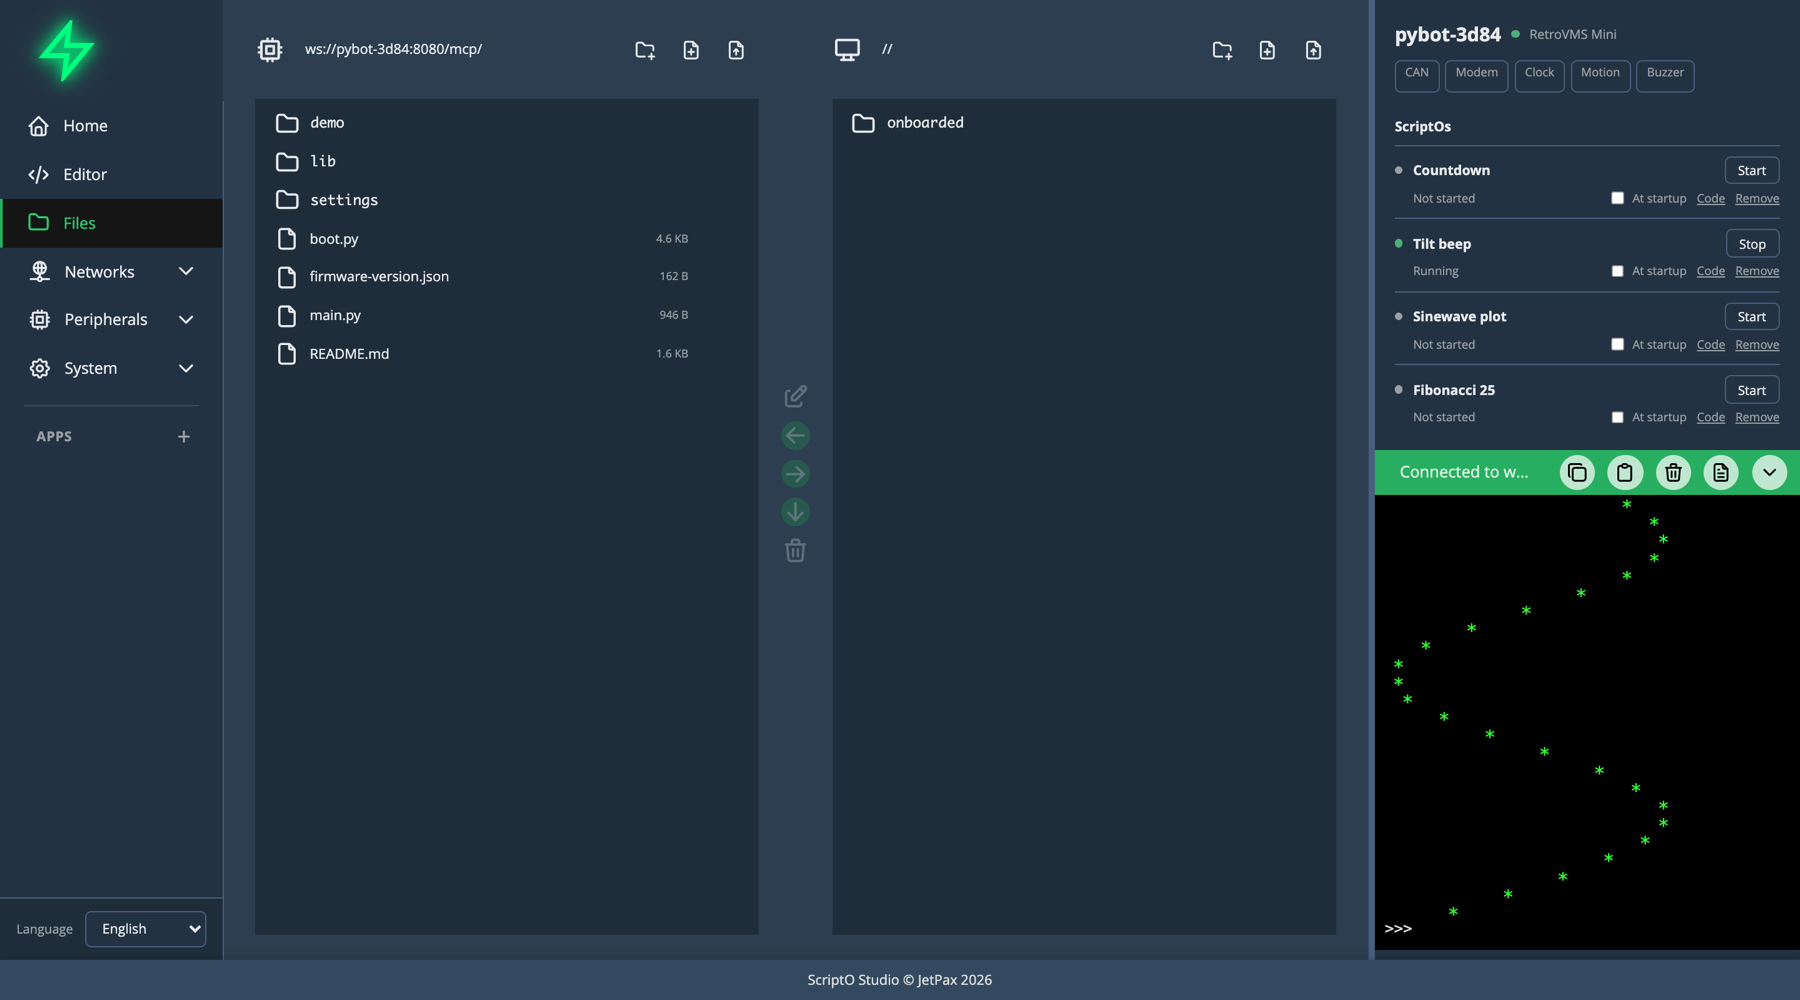
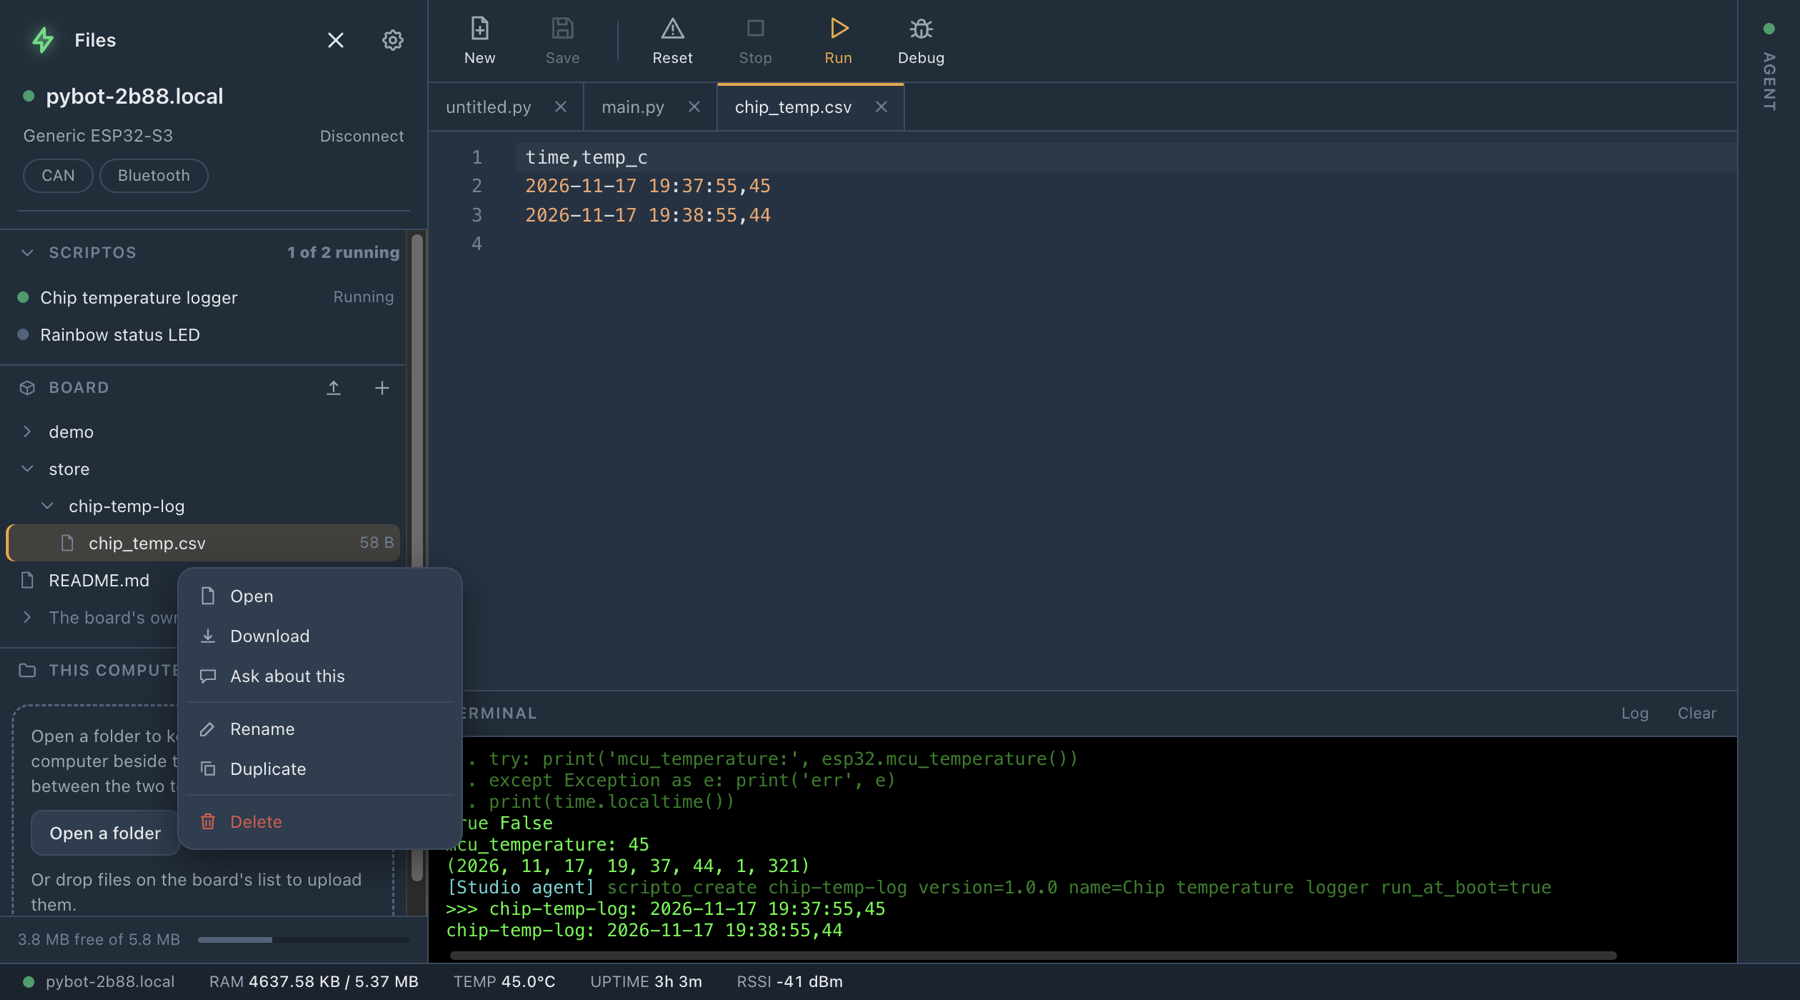
docs: new screenshots, Files and Editor for v2, Debug then Run

diff --git a/docs-src/user-guide/file-manager.md b/docs-src/user-guide/file-manager.md
@@ -1,51 +1,49 @@
-# File Manager
+# Files
 
-The File Manager shows the board's files next to files kept in your browser, and moves files between them.
+The folder button at the top of the sidebar shows **Files** in place of the Apps. Whatever is in the centre stays there, and opening a file brings Studio forward. Click the **×** in the button's place to go back to the Apps. Drag the sidebar's right edge to make it wider.
 
-Open it with **Files** in the menu.
+![Files, with a log file's menu open](../assets/files.png)
 
-![The Files view](../assets/files.png)
+Files has three parts.
 
-## The two panes
-
-| Pane | Shows |
+| Part | Shows |
 |------|-------|
-| Left | The board's filesystem. It reads **Connect to board** until a board is connected. |
-| Right | Browser storage: files Studio keeps in your browser, on your computer. |
+| **ScriptOs** | What's installed on the board, and whether each is running. |
+| **Board** | The board's files and folders. |
+| **This computer** | A folder on your computer, once you open one. |
 
-Each pane has a header with its path and three buttons: new folder, new file, and upload (left pane) or import (right pane). Files show their size. Folders are listed first.
+## ScriptOs
 
-Between the panes is a column of buttons that act on what you've selected:
+Each row has a dot that says whether the ScriptO is running, stopped or crashed.
 
-| Button | Action |
-|--------|--------|
-| Edit (pencil) | Open the selected files in the editor. |
-| Left arrow | Copy the selection from browser storage to the board. |
-| Right arrow | Copy the selection from the board to browser storage. |
-| Down arrow | Export the selected files to your computer, as browser downloads. |
-| Trash | Delete the selection. |
+- Hover over a row for its start or stop button.
+- Click a row to open its code in the editor.
+- Right-click it, or click its **⋯**, for **Run at startup**, **Open the code**, **Ask about the crash** when it has crashed, and **Remove**.
 
-## Select, open and navigate
+Click the **ScriptOs** heading to fold the list away. An App's own ScriptO belongs to the App, so it isn't listed here.
 
-- Click an item to select it. Click it again to clear it.
-- Double-click a file to open it in the editor.
-- Double-click a folder to go into it. Click `..` at the top of the list to go up.
+## The board's files
 
-## Create, rename and delete
+- Click a file to open it in the editor. Click a folder to open or close it.
+- Shift-click or Cmd-click to select several.
+- Right-click for **Open**, **Download**, **Ask about this**, **Rename**, **Duplicate** and **Delete**.
+- The upload button in the **Board** heading sends files from your computer to the board. Its **+** has **New file**, **New folder**, **Upload files**, **Back up the board** and **Refresh**.
+- Drag a file or folder onto a folder to move it. Drop files from your computer onto the list to upload them.
 
-- **New file** and **New folder** add an empty entry to the list with a name field. Type a name and press Enter. Press Escape to cancel.
-- **Rename**: click the text-cursor icon at the end of a row, edit the name, and press Enter.
-- **Delete**: select items, click the trash button and confirm. The confirmation lists what will go.
+The board's own files, the ones botIQ runs on, are folded away under **The board's own files**. Studio warns before you rename or delete one of them.
 
 > [!WARNING]
 > Deleting `boot.py` or breaking `main.py` can keep the board from starting.
 
-## Move files
+The bar at the bottom shows how much space the board has free.
 
-- **Copy to the board or to browser storage** with the arrow buttons. If a file of the same name is already at the destination, Studio lists the files it would overwrite and asks first.
-- **Upload** (left pane header) sends files from your computer straight to the board.
-- **Import** (right pane header) brings files from your computer into browser storage.
-- **Export** (down arrow) saves the selected files from either pane to your computer.
+## This computer
+
+Click **Open a folder** to keep files on your computer beside the board's. Chrome and Edge allow this; the browser asks again before Studio uses the folder in a later visit.
+
+- Drag between the two places to copy.
+- Right-click a folder on your computer for **Restore to the board**, which writes everything in it to the same place on the board.
+- **Back up the board**, in the board's **+**, copies all the board's files into a dated folder here. It leaves out the board's certificate and its settings file, which holds the Wi-Fi password.
 
 ## Related
 

diff --git a/docs-src/user-guide/editor-features.md b/docs-src/user-guide/editor-features.md
@@ -1,8 +1,8 @@
 # Editor Features
 
-The Editor edits files on the board or in your browser storage. Open it with **Editor** in the menu.
+The editor fills the top of Studio. It edits files on the board, or in a folder on your computer that you've opened in [Files](file-manager.md).
 
-![The Editor](../assets/editor.png)
+![A ScriptO's code in the editor, with Files in the sidebar](../assets/editor.png)
 
 The editor is CodeMirror 6. It has Python and JSON highlighting, line numbers, folding, bracket matching, search and undo history.
 
@@ -10,44 +10,37 @@ The editor is CodeMirror 6. It has Python and JSON highlighting, line numbers, f
 
 | Button | Action | Shortcut |
 |--------|--------|----------|
-| **New** | Create a file. | Ctrl+N / Cmd+N |
-| **Save** | Save the current file. | Ctrl+S / Cmd+S |
-| **Reset** | Reset the board. | |
-| **Stop** | Interrupt what's running and stop background tasks. | |
-| **Run** | Run the current file on the board. | Ctrl+R / Cmd+R |
-| **Debug** | Start a debug session. See [Debugging](debugging.md). | |
+| **New** | Start a new file. A new Python file holds a short test: it prints Hello, ScriptO! and calls `neofetch()`. | |
+| **Save** | Save the file. A new file asks where on the board it goes. | Ctrl+S / Cmd+S |
+| **Reset** | Restart the board's Python, or the whole board. | |
+| **Stop** | Break whatever is running, and stop ScriptOs and Apps too. | |
+| **Run** | Run the file, or only what's selected in it. With the debugger showing, run the file in it. | Ctrl+Enter / Cmd+Enter |
+| **Debug** | Show or hide the debugger. See [Debugging](debugging.md). | F5 |
+
+Studio opens on a new file when nothing is open, so **Run** is a one-click test of the board.
 
 ## Tabs
 
-Each open file has a tab. A CPU icon means the file is on the board, and a desktop icon means it's in browser storage. A `*` marks unsaved changes.
+Each open file has a tab. A dot marks unsaved changes; Studio keeps unsaved files in this browser until you save them.
 
 - Click a tab to switch to it.
-- Click the name on the active tab to rename the file.
-- Click the **x** to close it.
+- Click the **×** to close it. If it has unsaved changes, Studio asks first.
 
 ## Run
 
-**Run** sends the editor's current text to the board, saved or not. Output appears in the [terminal](terminal.md) in the sidebar.
+**Run** sends the editor's text to the board, saved or not, and its output appears in the [terminal](terminal.md) beneath. With part of the file selected, it runs only that.
 
-## JSON mode
+## JSON
 
-Files that end in `.json` get JSON highlighting. When you open one that holds a JSON object or array, Studio reformats it with two-space indentation.
+Files that end in `.json` get JSON highlighting.
 
 ## Breakpoints
 
 Click the gutter beside a line number to set a breakpoint. See [Debugging](debugging.md).
 
-## Other shortcuts
-
-| Shortcut | Action |
-|----------|--------|
-| Ctrl+L / Cmd+L | Clear the terminal. |
-
-These act in the Editor, apart from clearing the terminal, so Cmd+R reloads the page anywhere else. Browsers keep Cmd+N for themselves in a tab, so that one needs Studio installed as an app.
-
 ## Related
 
-- [File Manager](file-manager.md)
+- [Files](file-manager.md)
 - [Terminal](terminal.md)
 - [Debugging](debugging.md)
 - [Writing ScriptOs](../scriptos/writing-scriptos.md)

diff --git a/docs-src/getting-started/index.md b/docs-src/getting-started/index.md
@@ -9,7 +9,7 @@ Go to [scriptostudio.com/app](https://scriptostudio.com/app/). You can install i
 ## 2. Set up a new board
 
 1. Plug the board in with USB.
-2. Click **Set up a new board** at the bottom of the sidebar. That opens **Settings > Firmware**.
+2. Click the gear at the top of the sidebar, then **Firmware**.
 3. Follow the steps to flash the firmware and give the board your WiFi details. Its certificate is generated for you.
 4. Choose the board's password at `https://<host>.local/setup`. Your browser warns about the board's certificate the first time, because the board signed it itself. That's expected, so proceed to it.
 5. The board sends you back to Studio with its address filled in.
@@ -18,20 +18,20 @@ See [Flashing Firmware](../device-setup/flashing-firmware.md) and [Provisioning]
 
 ## 3. Connect
 
-Click **Connect a board**, or **Connect** beside a board you've used before.
+Click **Connect a board** at the top of the sidebar. A board you've used before is listed beneath it; click it to connect again.
 
 ![The connection dialog](../assets/connect-dialog.png)
 
-- **Device URL** is the board's address, such as `wss://pybot-6014.local/mcp`.
+- **Address** is the board's name on your network, such as `pybot-6014.local`.
 - **Password** is the one you chose during setup.
 
-The board then appears in the sidebar with what it has, such as CAN, Clock or Motion, and the ScriptOs on it.
+The board then shows at the top of the sidebar, with what it is and what it has, such as CAN or Bluetooth. Its ScriptOs are in [Files](../user-guide/file-manager.md).
 
 ## 4. Add an API key
 
 Studio's agent runs in your browser and uses models through [OpenRouter](https://openrouter.ai), on your own account.
 
-1. Click **Add an API key** under the message box, and paste your key.
+1. Click **Add an API key** under the message box in the Agent, on the right, and paste your key.
 2. Click the model's name beside it to choose another model. Tick **Free only** to see the free ones.
 
 The key stays in this browser, in a separate frame that Studio's pages and Apps can't read.
@@ -40,8 +40,8 @@ If you'd rather use Claude Code or another agent, see [Other Agents](../agent/ot
 
 ## 5. Ask for something
 
-![Home, ready for a request](../assets/home-start.png)
+![Studio, ready for a request](../assets/home-start.png)
 
-Type what the board should do, or pick a suggestion. Suggestions come from what the board says it has.
+In the Agent, type what the board should do, or pick a suggestion. Suggestions come from what the board says it has.
 
 Next: [Your First ScriptO](first-scripto.md).

diff --git a/docs-src/user-guide/debugging.md b/docs-src/user-guide/debugging.md
@@ -6,11 +6,12 @@ The debugger runs the file you're editing on the board and stops it at breakpoin
 
 1. Connect a board and open a Python file in the **Editor**.
 2. Optionally, set breakpoints in the gutter (below).
-3. Click **Debug** in the toolbar. The debugger opens beside the code, with the file, its breakpoints and the watch expressions. **Debug** needs a board connected and a file open.
-4. Add watch expressions if you want them.
-5. Click **Start debugging**.
+3. Click **Debug** in the toolbar, or press F5. The debugger opens beside the code, with the file's breakpoints and your watch expressions.
+4. Click **Run**, or press F5 again. The file runs, and stops at its first breakpoint, or at its first line if it has none.
 
-Studio prepares the file in the browser, interrupts whatever is running, and runs the prepared file in the terminal. While a session is open the editor is read-only, and **New** and **Save** are disabled.
+Click **Debug** again to hide the debugger; **Run** then runs the file as usual.
+
+Running in the debugger needs a board connected and a file open. Studio prepares the file in the browser, interrupts whatever is running, and runs the prepared file in the terminal. While a session is open the editor is read-only, and **New** and **Save** are disabled.
 
 ## Breakpoints
 
@@ -27,7 +28,7 @@ Click **Save** to keep your changes.
 
 ## Watch expressions
 
-**Watch Expressions** takes one expression per line, for example `x * 2`. Studio evaluates them each time the program stops.
+**Watch**, in the debugger, takes one expression per line, for example `x * 2`. Studio works them out each time the program stops. They become part of the file that runs, so watches you add during a session are worked out from the next time you click **Run**. Studio keeps them for next time.
 
 ## While the program is stopped
 
@@ -41,7 +42,7 @@ The toolbar shows these buttons during a session:
 | **Step In** | Step into a call. F11. |
 | **Step Out** | Run until the current function returns. F12. |
 
-The sidebar, titled **Debug Session**, shows **Live Variables**: your watch expressions and the local variables at the stop. The terminal prints the stop as well, with the file and line, the watches, the locals, the memory in use and the elapsed time.
+The debugger shows where the program stopped, its **Variables** and your **Watch** expressions, with the values that changed since the last stop highlighted. **Ask about this** hands the file and the values to the agent. The terminal marks each stop with its line.
 
 ## How it connects
 

diff --git a/docs-src/getting-started/first-scripto.md b/docs-src/getting-started/first-scripto.md
@@ -1,13 +1,13 @@
 # Your First ScriptO
 
-This walks through one request on a board with an accelerometer and a buzzer. On another board, ask for something it has hardware for.
+This walks through one request that any board can do: every ESP32 can read its own temperature.
 
 ## Ask
 
-On Home, type:
+In the Agent, type:
 
 ```text
-Beep when the board is tilted
+Log the chip temperature to a file every minute
 ```
 
 ## Watch
@@ -16,28 +16,28 @@ Beep when the board is tilted
 
 The chat shows each call the agent makes, and the terminal shows the code it runs and what that printed.
 
-1. **It tries the hardware.** It calls `exec` to read the accelerometer and see what it reads at rest.
+1. **It tries the hardware.** It calls `exec` to find the temperature sensor and read it.
 2. **It leaves a ScriptO.** It calls `scripto_create` with an id and the code. The code is checked before anything is written, so a mistake can't replace what's working.
 3. **Studio checks on it.** Two seconds after a ScriptO starts, Studio tells the agent what became of it. If it crashed, the agent sees the error and can fix it.
-4. **It reports.** It says what it did and what it couldn't check. An agent can't hear a buzzer, so it asks you to try it.
+4. **It reports.** It says what it did, where the readings go, and what it couldn't check.
 
-The ScriptO's row appears in the sidebar, marked **Running**.
+The ScriptO appears under **ScriptOs** in [Files](../user-guide/file-manager.md), marked **Running**.
 
 ## Try it
 
-Tilt the board. It should beep once per tilt.
+After a few minutes, open the file the agent named, in Files. There's a new line each minute.
 
 If it doesn't do what you wanted, say so in the same chat. The agent can read the sensor again, change the code and restart it.
 
 ## Keep it
 
-The ScriptO keeps running after you close Studio. To have it start every time the board powers up, tick **At startup** on its row, or ask the agent.
+The ScriptO keeps running after you close Studio. To have it start every time the board powers up, choose **Run at startup** from its menu in Files, or ask the agent.
 
-From the row you can also:
+From its row you can also:
 
-- **Stop** or **Start** it.
-- Read its code with **Code**, which opens it in the Editor.
-- **Remove** it, which deletes its code and leaves its data.
+- Stop or start it, with the button that shows when you hover over it.
+- Open its code in the editor, by clicking it.
+- **Remove** it, from its menu, which deletes its code and leaves its data.
 
 ## Where it lives
 

diff --git a/docs-src/device-setup/flashing-firmware.md b/docs-src/device-setup/flashing-firmware.md
@@ -1,6 +1,6 @@
 # Flashing Firmware
 
-Put ScriptO Studio's firmware on a board over USB. You do this from **Set up a new board** on Home, which opens **Settings > Firmware**.
+Put ScriptO Studio's firmware on a board over USB. You do this from **Settings > Firmware**: the gear at the top of the sidebar, then **Firmware**.
 
 ## Supported chips
 
@@ -26,7 +26,7 @@ See [Board Configurations](board-configurations.md) for what a manifest holds.
 
 You need Chrome or Edge, which provide Web Serial.
 
-1. On Home, click **Set up a new board**. This opens **Settings > Firmware**.
+1. Click the gear at the top of the sidebar, then **Firmware**.
 2. Plug the board in over USB and click **Connect Device**. Pick the port in the browser's chooser.
 3. Studio shows the chip, MAC address and flash size under **Device Information**, then offers four options:
     - **Flash Device**: flash fresh firmware onto a blank ESP32.

diff --git a/docs-src/getting-started/tour.md b/docs-src/getting-started/tour.md
@@ -21,7 +21,7 @@ Each ScriptO shows whether it's running. Hover over one for its start or stop bu
 
 ## Studio, in the centre
 
-The editor fills the top. **Debug** in its toolbar shows or hides the debugger beside the code, and a debug session keeps it showing. See [Debugging](../user-guide/debugging.md).
+The editor fills the top. **Debug** in its toolbar shows the debugger beside the code; while it shows, **Run** runs the file in it, a line at a time. See [Debugging](../user-guide/debugging.md).
 
 Beneath the editor are the **Terminal**, the board's REPL, and the **Log**. **Log** in the terminal's bar shows or hides the Log. See [Terminal](../user-guide/terminal.md).
 

diff --git a/docs-src/scriptos/ui-plugin-hello-world.md b/docs-src/scriptos/ui-plugin-hello-world.md
@@ -11,7 +11,7 @@ A ScriptO can serve its own web page from the board and ask Studio to show it in
 
 ## Running it
 
-Ask the agent on Home to make it, or put the code below in a file in the **Editor** and click **Run**. The page opens in a modal over Studio. To keep it on the board as a ScriptO, ask the agent to leave it there with `scripto_create`.
+Ask Studio's agent to make it, or put the code below in a file in the **Editor** and click **Run**. The page opens in a modal over Studio. To keep it on the board as a ScriptO, ask the agent to leave it there with `scripto_create`.
 
 The code is the template below. Change `title` and the HTML to make your own.
 

diff --git a/docs-src/agent/studio-agent.md b/docs-src/agent/studio-agent.md
@@ -1,6 +1,6 @@
 # Studio's Agent
 
-Studio's agent runs in the browser page on Home. There's nothing to install. It works on one board, with that board's tools, and it's meant for getting something working on the board rather than for general coding.
+Studio's agent runs in the browser page, in the Agent on the right of Studio. There's nothing to install. It works on one board, with that board's tools, and it's meant for getting something working on the board rather than for general coding.
 
 ## Your key and model
 

diff --git a/docs-src/agent/other-agents.md b/docs-src/agent/other-agents.md
@@ -27,7 +27,7 @@ A client that keeps a WebSocket open at `wss://<board>/mcp` gets more: live prog
 
 ## Watching it work
 
-Stay connected in Studio. The agent's calls appear under **Other agents** on Home, and its code and output appear in the terminal, tagged with its name.
+Stay connected in Studio. The agent's calls appear under **Other agents** in Studio's Agent, and its code and output appear in the terminal, tagged with its name.
 
 ![Another agent's calls and output in Studio](../assets/other-agents.png)
 

diff --git a/docs-src/device-setup/network-setup.md b/docs-src/device-setup/network-setup.md
@@ -4,7 +4,7 @@ Set the WiFi network a board joins, and see its network state.
 
 ## Change WiFi over USB
 
-1. On Home, click **Set up a new board**. This opens **Settings > Firmware**.
+1. Click the gear at the top of the sidebar, then **Firmware**.
 2. Plug the board in over USB and click **Connect Device**.
 3. Choose **Change WiFi**.
 4. Studio scans and lists the networks it finds.
